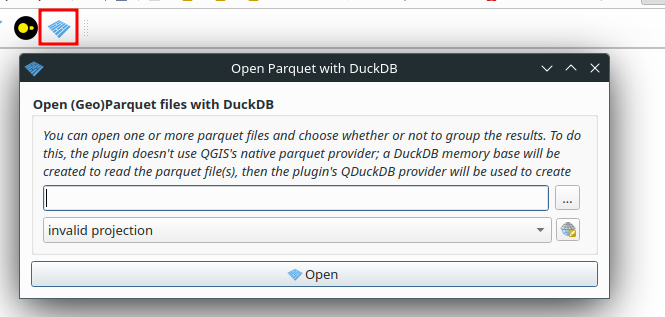
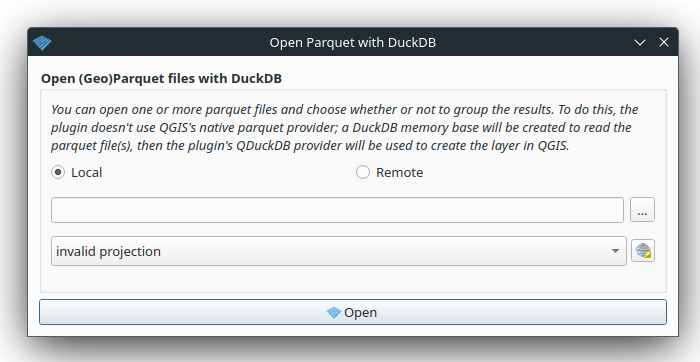
docs: update load parquet with remote file feature

diff --git a/docs/usage/use.md b/docs/usage/use.md
@@ -58,6 +58,8 @@ uri = 'path="path/to/my/my_base.db"|sql="SELECT name, geom FROM cities WHERE id 
 
 This plugin also lets you load a geoparquet directly via the DuckDB provider.
 
+Both local and remote parquet files can be supplied.
+
 ![Load parquet GUI](../static/load_parquet.png)
 
 In detail, we create an instance of the provider with a temporary base in memory and then perform a `select * from read_parquet`.
